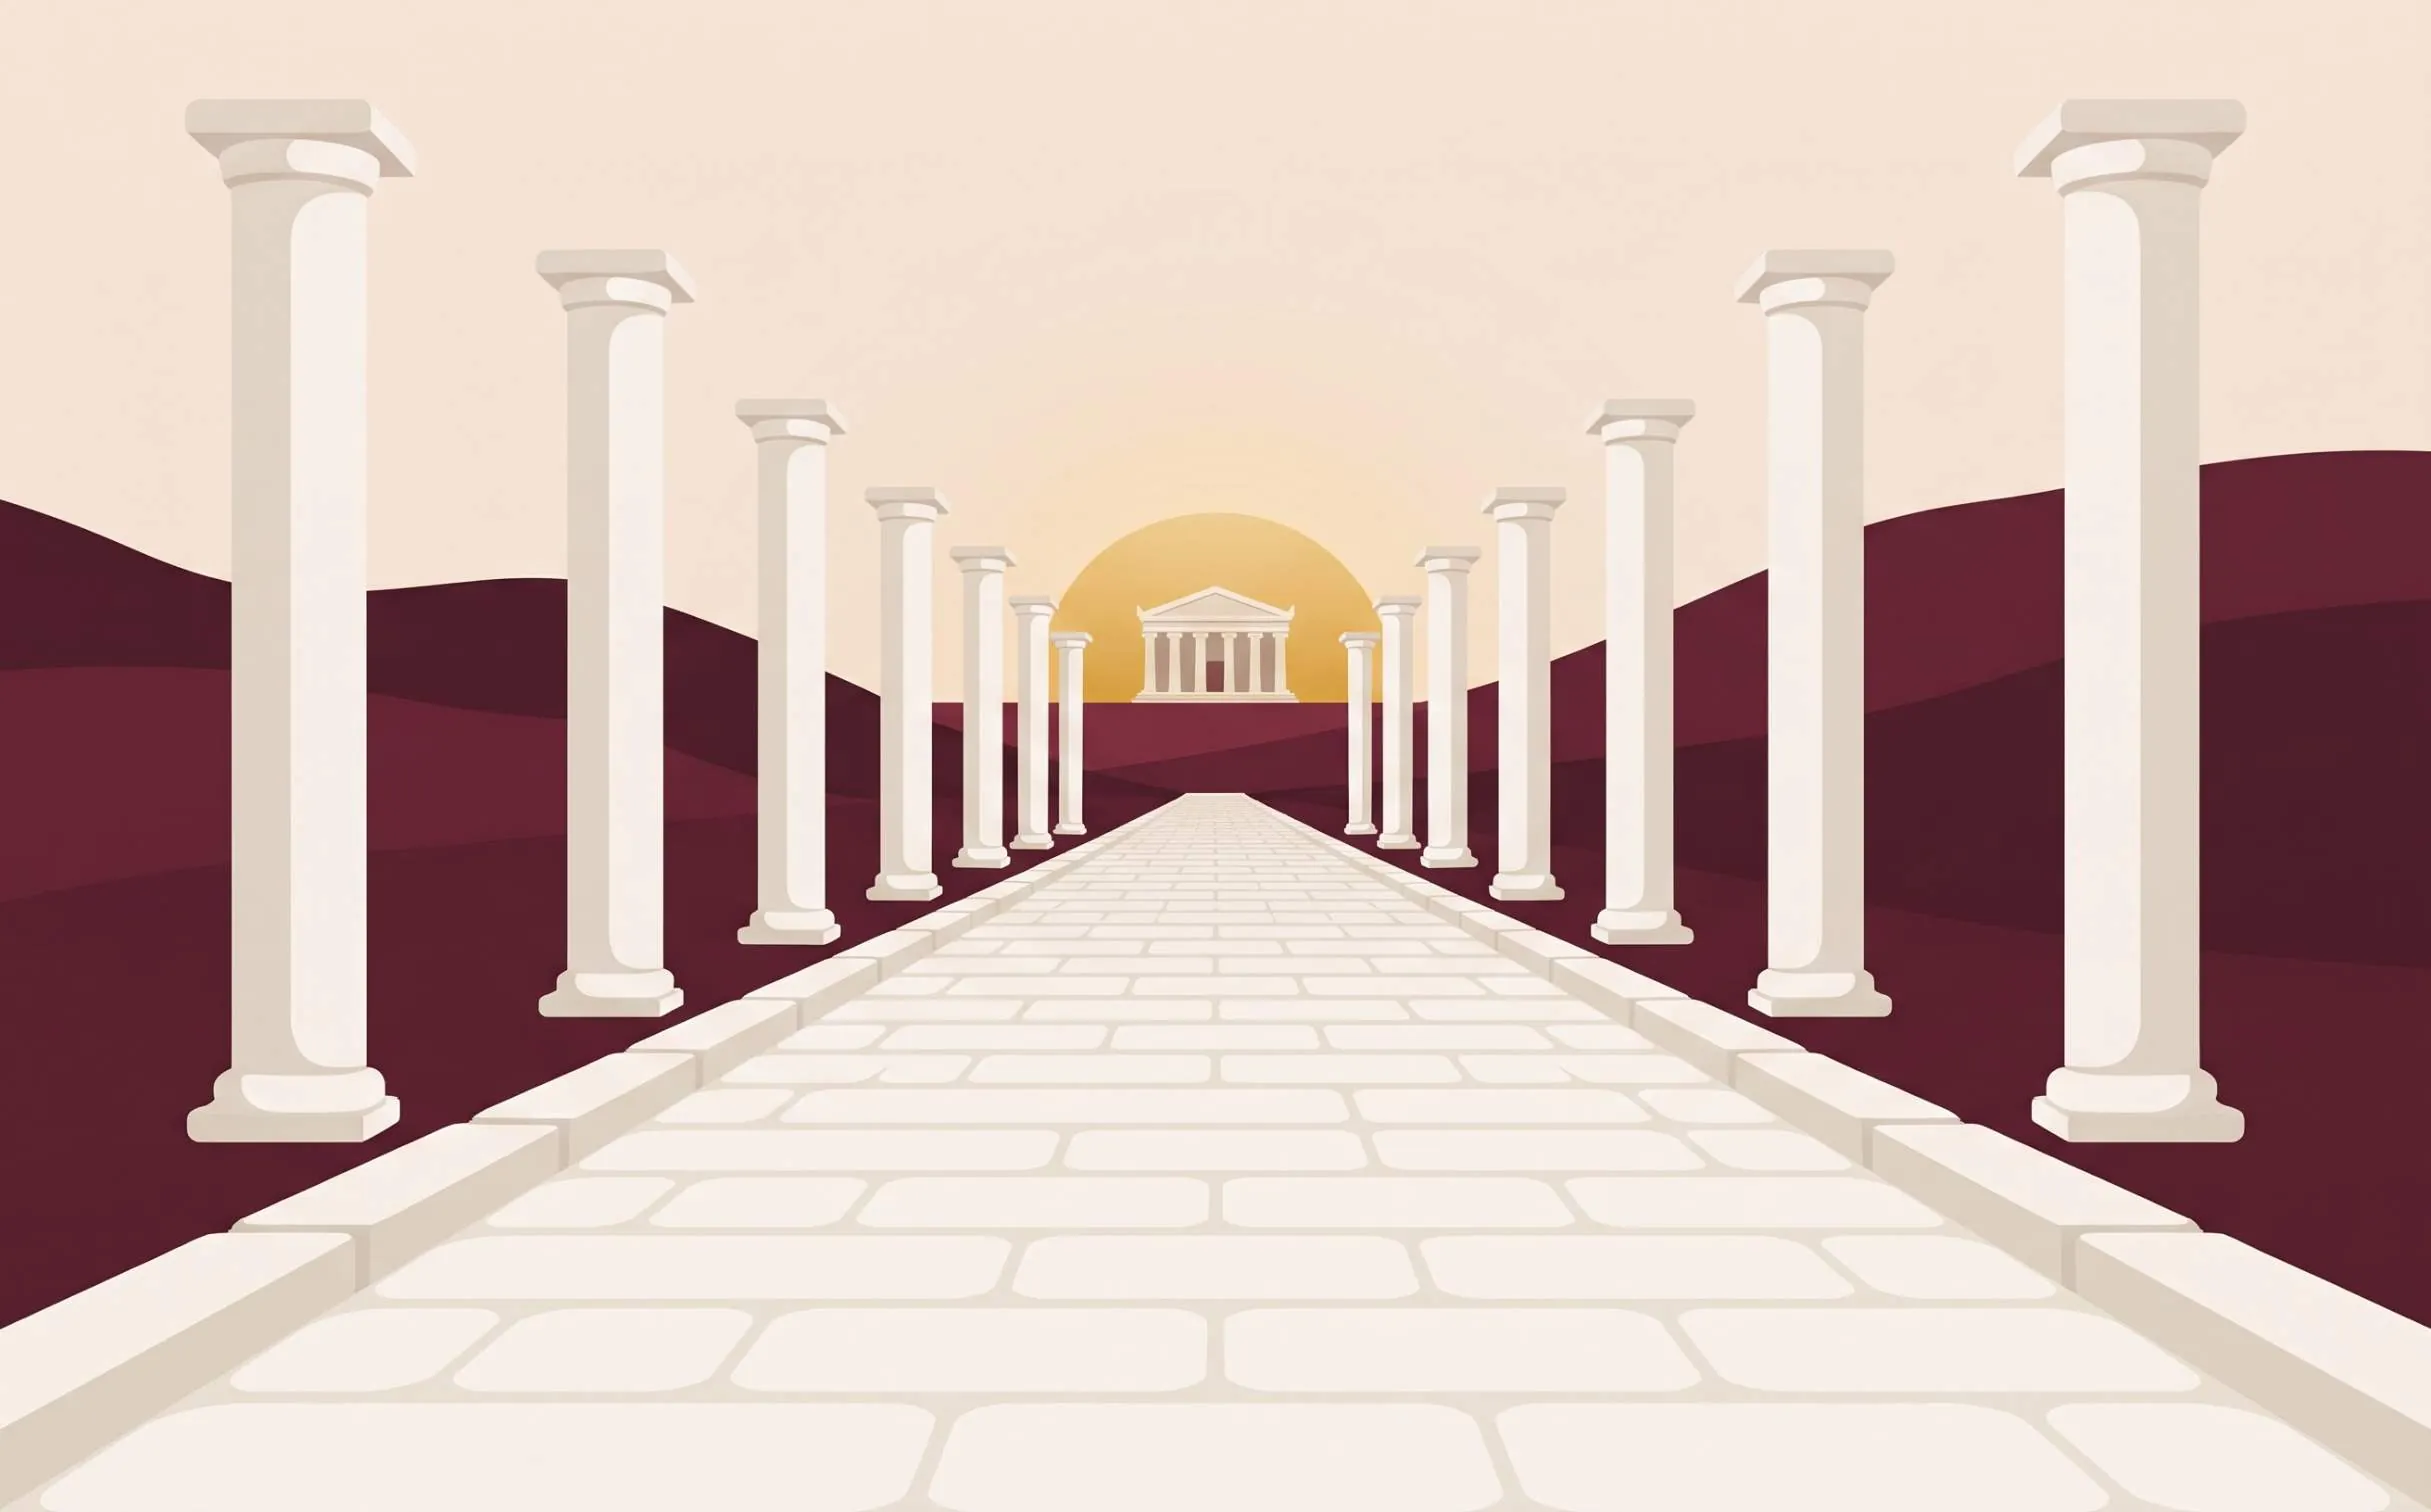
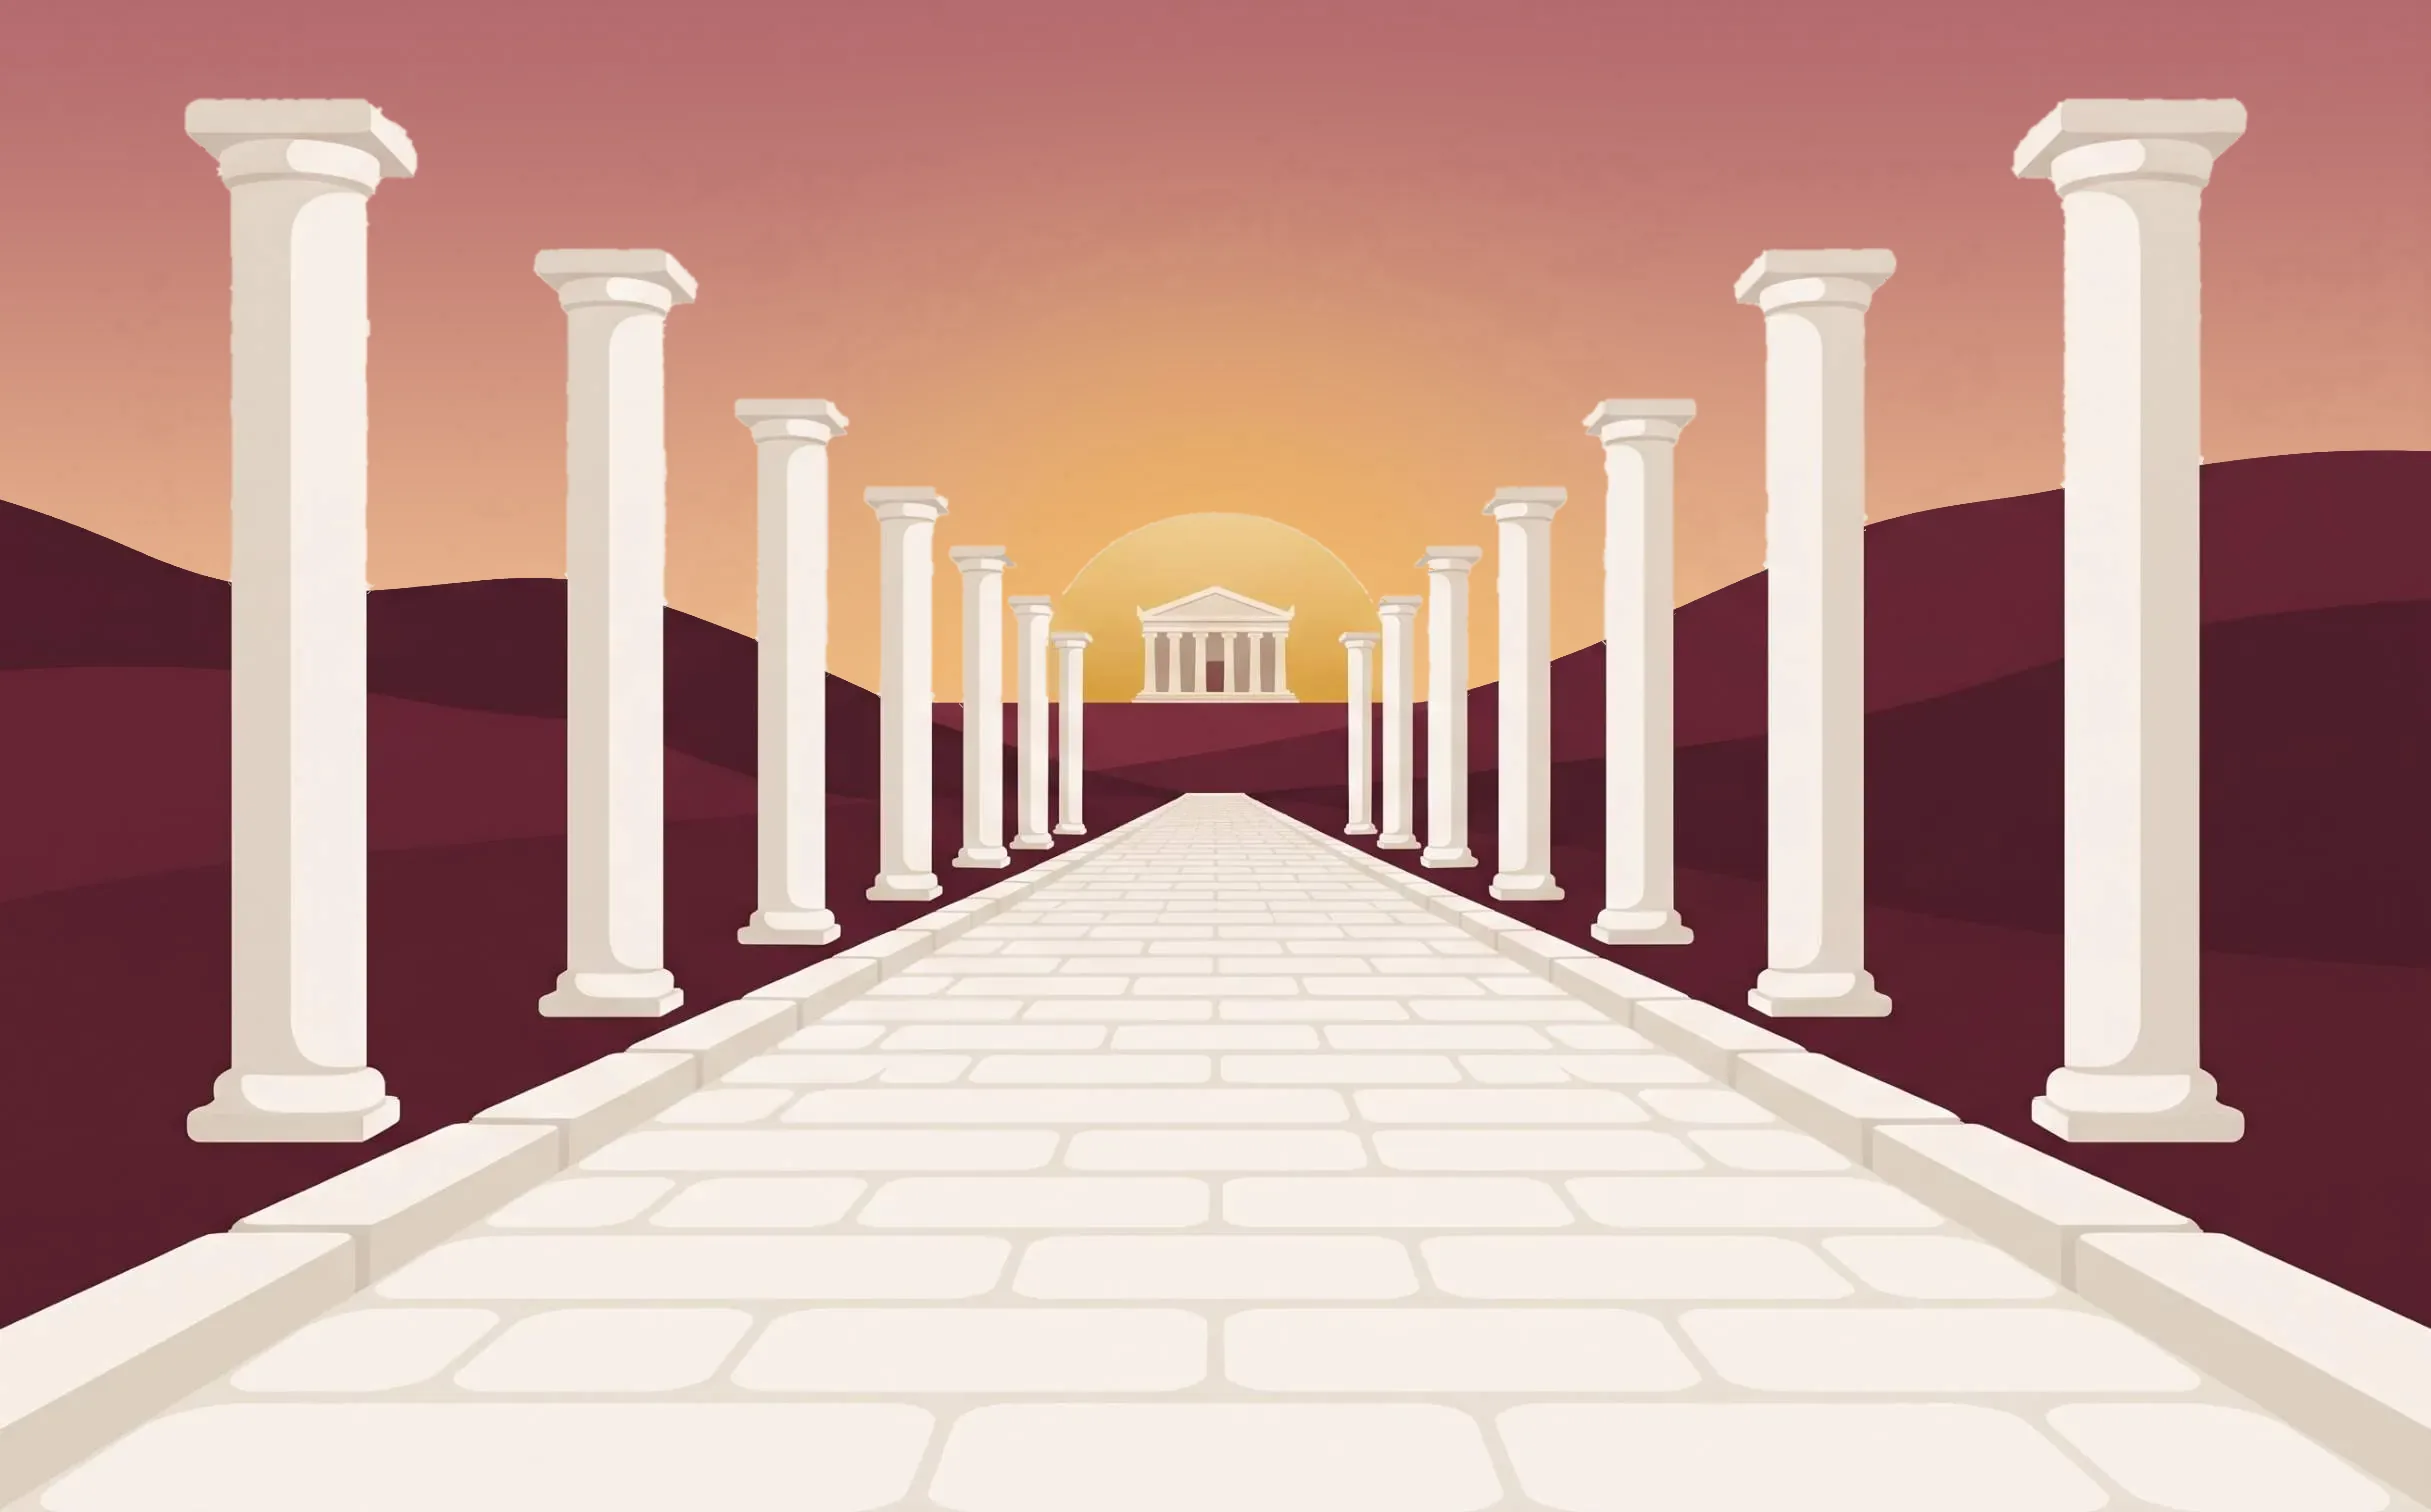
v174: Ufuk sahnesinde gökyüzü koyu gül-gün batımı, sütunlar belirgin; başlık krem
Açık modda krem sis katmanları kaldırıldı, yerine ince koyu bordo sis konuldu. Başlık, üst yazı ve alan satırı krem/altın yapıldı (gece modu değişmedi). Servis çalışanı v174.

Claude-Session: https://claude.ai/code/session_01Wp7jVAf1YjNjDJ5quwzSDF

diff --git a/css/uygulama.css b/css/uygulama.css
@@ -1921,7 +1921,7 @@ html.mf-gece #bld-kart .bld-liste,html.mf-gece #bld-kart .bld-sat{border-color:#
 /* Ufuk: Roma yolu sahnesi (Gemini ile üretildi) */
 .uf-hero{position:relative;isolation:isolate;margin:-6px -4px 14px;padding:16px 14px 4px;border-radius:22px;overflow:hidden;min-height:340px;display:flex;flex-direction:column;justify-content:space-between}
 .uf-hero-bg{position:absolute;inset:0;z-index:-1;background:url(../img/ufuk-duz.webp) center 60%/cover no-repeat}
-.uf-hero-bg::after{content:"";position:absolute;inset:0;background:linear-gradient(180deg,rgba(251,247,242,.85) 0%,rgba(251,247,242,.55) 24%,rgba(251,247,242,0) 44%,rgba(251,247,242,0) 70%,rgba(251,247,242,.3) 100%)}
+.uf-hero-bg::after{content:"";position:absolute;inset:0;background:linear-gradient(180deg,rgba(63,18,25,.5) 0%,rgba(63,18,25,.45) 24%,rgba(63,18,25,.32) 40%,rgba(63,18,25,0) 58%)}
 .uf-hero .uf-bas{margin:0}
 .uf-hero .uf-konus{margin:0}
 .uf-hero .uf-balon{background:rgba(255,253,250,.92);backdrop-filter:blur(2px)}
@@ -1940,8 +1940,13 @@ html.mf-gece .uf-hero .uf-balon{background:rgba(46,33,36,.92)}
 .uf-s-bg img{position:absolute;inset:0;width:100%;height:100%;display:block;-webkit-user-drag:none}
 .uf-s-gece{opacity:0}html.mf-gece .uf-s-gece{opacity:1}html.mf-gece .uf-s-gun{opacity:0}
 html.mf-gece .uf-sahne{background:#2A0E15}
-.uf-s-sis{position:absolute;inset:0;pointer-events:none;background:linear-gradient(180deg,rgba(251,247,242,.82) 0%,rgba(251,247,242,.4) 16%,rgba(251,247,242,0) 30%)}
+.uf-s-sis{position:absolute;inset:0;pointer-events:none;background:linear-gradient(180deg,rgba(63,18,25,.5) 0%,rgba(63,18,25,.42) 16%,rgba(63,18,25,.22) 26%,rgba(63,18,25,0) 38%)}
 html.mf-gece .uf-s-sis{background:linear-gradient(180deg,rgba(20,8,11,.6) 0%,rgba(20,8,11,0) 28%)}
+html:not(.mf-gece) .uf-sahne .uf-bas h2,html:not(.mf-gece) .uf-hero .uf-bas h2{color:#FBF7F2;text-shadow:0 1px 8px rgba(63,18,25,.35)}
+html:not(.mf-gece) .uf-sahne .uf-ust,html:not(.mf-gece) .uf-hero .uf-ust{color:#F8EBC4;text-shadow:0 1px 6px rgba(63,18,25,.4)}
+html:not(.mf-gece) .uf-hero .uf-tipsat{color:#FBF7F2;text-shadow:0 1px 3px rgba(63,18,25,.75),0 0 10px rgba(63,18,25,.55)}
+html:not(.mf-gece) .uf-hero .uf-bas h2{text-shadow:0 1px 3px rgba(63,18,25,.6),0 1px 10px rgba(63,18,25,.45)}
+html:not(.mf-gece) .uf-hero .uf-ust{text-shadow:0 1px 3px rgba(63,18,25,.7),0 0 8px rgba(63,18,25,.5)}
 .uf-sahne .uf-bas{position:absolute;left:16px;right:16px;top:14px;margin:0;z-index:1100;pointer-events:none}
 .uf-s-asl{position:absolute;left:1%;bottom:-6px;z-index:1100;pointer-events:none;width:28%;max-width:150px}
 .uf-s-asl .uf-m,.uf-s-asl .as-buyu,.uf-s-asl .as-govde,.uf-s-asl svg{width:100%!important;height:auto!important;max-width:none!important}

diff --git a/sw.js b/sw.js
@@ -1,5 +1,5 @@
 // Lex Odak - service worker
-var SURUM = 'lex-odak-v173';
+var SURUM = 'lex-odak-v174';
 var MEVZUAT = 'lex-mevzuat-3';
 var MEVZUAT_ESKI = 'lex-mevzuat-2';  // tek dosyalı eski mevzuat.json önbelleği; kanun dosyaları tamamen inene dek silinmez (aşağıda 'message')
 var OCR = 'lex-ocr-1';  // taranmış PDF okuma motoru (jsdelivr), bir kez iner  // kanun metinleri sürüm değişse de silinmez
